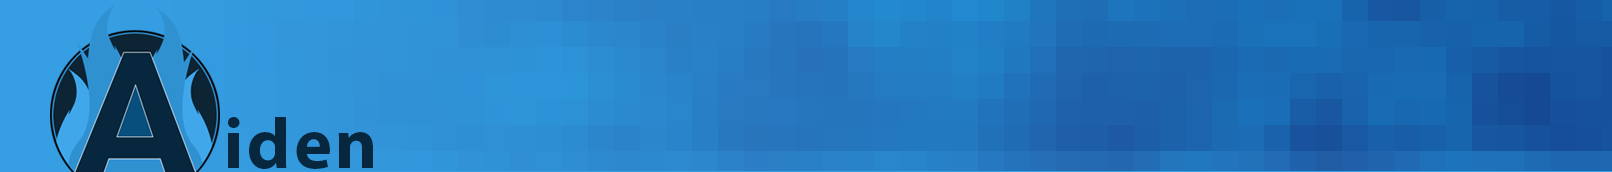
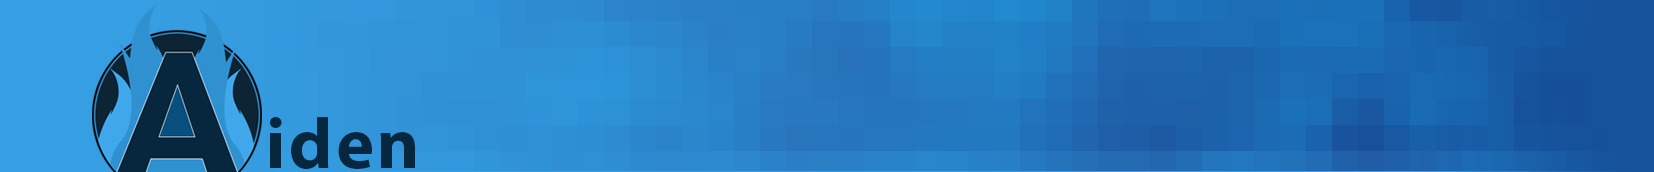
more fine tuning....

Changed region(s): [[0.031, 0.1744, 0.2481, 1.0], [0.8995, 0.9884, 1.0, 1.0]]

diff --git a/css/style.css b/css/style.css
@@ -1,6 +1,6 @@
 html, body {
 margin:0;
-background-color:#e9f0f4;
+background-color:#369ee2;
 font-size:12pt;
 }
 
@@ -10,25 +10,30 @@ display:none !important;
 
 .wrapper {
 min-width:1024px;
-max-width:1440px;
 margin: 0 auto;
 height:100%;
 min-height:100%;
 background-color:#fcfdfd;
--webkit-box-shadow: 0 1px 4px rgba(0, 0, 0, 0.3), 0 0 40px rgba(0, 0, 0, 0.1) inset;
--moz-box-shadow: 0 1px 4px rgba(0, 0, 0, 0.3), 0 0 40px rgba(0, 0, 0, 0.1) inset;
-box-shadow: 0 1px 4px rgba(0, 0, 0, 0.3), 0 0 40px rgba(0, 0, 0, 0.1) inset;
 }
 
 .headerWrapper {
-background-color:#369ee2;
+background-image:url('../images/header_wrapper.png'); /* cheating */
+background-repeat:no-repeat;
+background-position:0px 0%;
+background-color:#16519b;	
+width:100%;
+}
+
+.headerAlign {
 height:172px;
+max-width: 1640px;
+margin: 0 auto;
 }
 
 .header {
 background-image:url('../images/aiden_header.png');	
 background-repeat:no-repeat;
-background-position:42px 0%;
+background-position:0px 0%;
 height:172px;
 }
 
@@ -36,13 +41,15 @@ height:172px;
 background-image:url('../images/aiden_subHeader.png');	
 background-repeat:no-repeat;
 background-position:105px 0%;
+max-width: 1640px;
+margin: 0 auto;
 }
 
 .content {
-margin:0px 30px;
+margin:0px 75px;
 clear: both;
 padding:30px;
-padding-top:50px;
+padding-top:60px;
 }
 
 h1 {
@@ -137,8 +144,8 @@ padding:0px;
 .sideBox {
 padding-top:7px;
 padding-right:0px;
-margin:0px 0px 30px 30px;
-width:340px;
+margin:0px 0px 30px 15px;
+width:240px;
 float:right;
 }
 

diff --git a/index.html b/index.html
@@ -33,8 +33,9 @@
 <body>
 
 <div class="wrapper">
-	
+
 <div class="headerWrapper">
+<div class="headerAlign">
 	
 	<div class="header">
 		
@@ -49,7 +50,7 @@
 				
 	</div>
 </div>
-
+</div>	
 <div class="main">
 
 <div id="home" class="content active">
